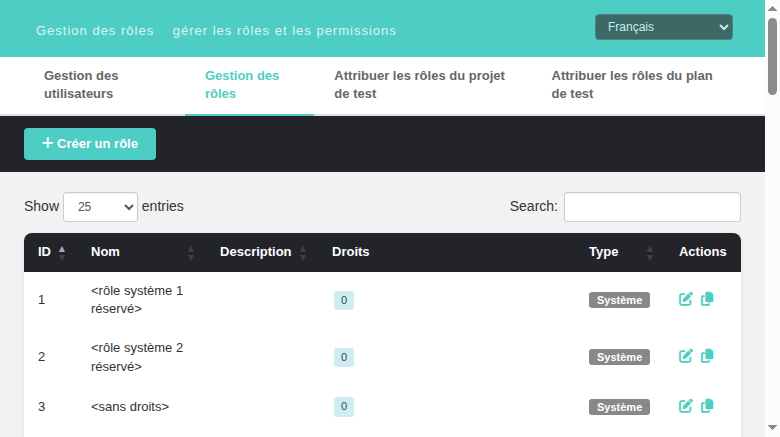
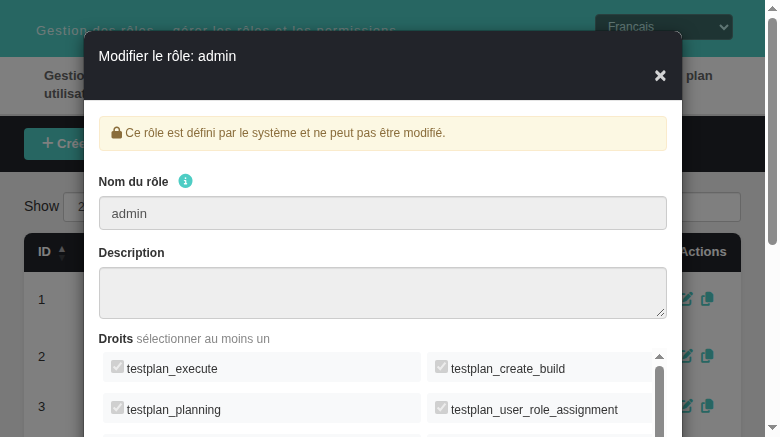
docs(#1840): regression suite, screen doc + CHANGELOG, real before/after screenshots (Refs #1840)
- tmp/TLU_Test_Cases.md: append 'Regression — Issue #1840' suite (M1-M7, all
  PASS) and run ai/verify_test_suites.sh: 7 -> 8 suites, 0 lost, own heading
  present, 7 PASS / 0 FAIL. Appended with >>, file regenerated by no one.
- docs/Bugfix-Issue-1840-fr-json-Missing-26-en-Keys.md: full write-up - the
  i18n.js:165 '_strings[key] || key' chain, the four commits that widened
  en.json, the misleading 'all 10 locale bundles' claim of 9d380b9dc (measured
  6 of 10), the blast radius, and the two rejected alternatives.
- Screenshots are now a real before/after of the SAME interaction (edit a
  system role, which un-hides #roleLockNote): before shows the raw keys
  'role.editLocked' / tooltip 'role.duplicateRole', after the French strings.
  The first pair was byte-identical (the nodes are display:none until the
  dialog opens) and was re-captured by reverting fr.json to HEAD~1 and
  replaying the click.
- The ASIDE half of the report is a different i18n layer (legacy
  locale/fr_FR/strings.txt, 89 missing $TLS_* keys) and is filed as #1843;
  the missing cross-bundle key-set CI gate as #1844.

Refs #1840

diff --git a/docs/Bugfix-Issue-1840-fr-json-Missing-26-en-Keys.md b/docs/Bugfix-Issue-1840-fr-json-Missing-26-en-Keys.md
@@ -1,0 +1,196 @@
+# Bugfix — Issue #1840: `gui/templates/i18n/fr.json` missing 26 `en.json` keys — `fr_FR` users saw raw dotted keys on screen
+
+- **Issue**: [#1840](https://github.com/sebiboga/testlink-upgraded/issues/1840)
+- **Branch**: `fix/issue-1840`
+- **Commit**: `cca8a6d01` — *fix(i18n): add the 26 keys en.json defines and fr.json lacked (Refs #1840)*
+- **Files changed**: `gui/templates/i18n/fr.json` (+26/-0), `CHANGELOG` (1 entry)
+- **Severity**: minor — cosmetic for `de/es/it` peers, but for `fr_FR` the leaked text is garbage (`role.noRights`), not English
+- **Regression suite**: `tmp/TLU_Test_Cases.md` → `## Regression — Issue #1840: …` (M1–M7, all PASS)
+- **Related**: the ASIDE half of the report is a *different* defect — [#1843](https://github.com/sebiboga/testlink-upgraded/issues/1843). The missing CI guard-rail — [#1844](https://github.com/sebiboga/testlink-upgraded/issues/1844)
+
+## Symptom
+
+`gui/templates/i18n/fr.json` defined 6700 of the 6726 keys in `en.json`. The 26
+absent ones belong to four shipped features (Requirements Monitor Overview grid
+toolbar, Roles Management dialogs, Test Strategy bug chapters, requirement-table
+counters) whose authors added the `en.json` key and stopped there.
+
+The user-visible result is **worse than untranslated English**: because
+`TLi18n.t()` has no per-key fallback, the module returns the key itself and the
+raw dotted key is written into the DOM.
+
+Measured pre-fix, `rolesView.html?locale=fr_FR`:
+
+```js
+TLi18n.t('role.noRights')    // => "role.noRights"     <-- raw key, not a label
+TLi18n.t('role.editLocked')  // => "role.editLocked"   <-- raw key
+```
+
+Static confirmation:
+
+```bash
+python3 -c "
+import json
+en=json.load(open('gui/templates/i18n/en.json'))
+fr=json.load(open('gui/templates/i18n/fr.json'))
+print(len(en), len(fr), len([k for k in en if k not in fr]))"
+# 6726 6700 26
+```
+
+## Root cause
+
+Two hops, both read from source:
+
+1. `gui/templates/i18n/i18n.js:165` — `t(key)` is `var str = _strings[key] || key;`.
+   `_strings` is whatever single bundle was fetched at
+   `gui/templates/i18n/i18n.js:131` (`/gui/templates/i18n/<locale>.json`). There
+   is no English merge, so an absent key resolves to itself.
+2. `gui/templates/i18n/i18n.js:187` — `apply()` writes `t(key)` into
+   `textContent` for every `[data-i18n]` node, unconditionally. The English
+   literal an author put in the HTML as a fallback is therefore **overwritten**
+   by the raw key.
+
+Why the keys went missing — four independent feature batches, each verified with
+`git log -S` against `gui/templates/i18n/en.json`:
+
+| commit | feature | keys |
+|---|---|---|
+| `588897593` | Test Strategy Bug Structure / Bug Lifecycle chapters | `ts.chapterBug*` (4) |
+| `a381901e3` | Req. Monitor Overview group-by-spec + toolbar | `rmo.grid.*` (7), `rmo.*` (3) |
+| `9d380b9dc` | Create Test Cases counters | `rctc.*` (6) |
+| `4bcf10e07` | Roles Management dialogs (a *restore* of gutted i18n) | `role.*` (6) |
+
+Nothing in the pipeline compares key **sets** across bundles — CI only runs
+`python3 -m json.tool`, which a bundle missing 26 keys passes trivially. That
+missing guard-rail is now [#1844](https://github.com/sebiboga/testlink-upgraded/issues/1844).
+
+### A commit message that lied
+
+`9d380b9dc` is titled *"i18n(reqCreateTestCases): rctc.\* keys in all 10 locale
+bundles"*. Measured today:
+
+```bash
+grep -c rctc.countFilled gui/templates/i18n/*.json
+# en 1, ja 1, pt 1, ro 1, ru 1, zh 1, de 0, es 0, fr 0, it 0
+```
+
+6 of 10, not 10. Reviewing the message instead of the diff is what let the gap
+through.
+
+## Blast radius (measured)
+
+* **`fr.json` — 26 keys**, every one referenced by live code, not dead weight:
+  * `rctc.*` → `gui/templates/requirements/reqCreateTestCases.html:257`
+    (`TLi18n.t()` inside a toast)
+  * `role.*` → `gui/templates/usermanagement/rolesView.html:101,508` and
+    `api/roles/index.php:642` (`messageKey` returned to the client)
+  * `ts.*` → `api/strategy/index.php:77,78` (chapter list, `key`/`descKey` pairs)
+  * `rmo.grid.*` / `rmo.*` → `gui/templates/requirements/reqMonitorOverview.html:55`
+    and its siblings
+* **Same 26 keys, same four-feature origin: `de.json`, `es.json`, `it.json`.**
+  `set(missing(de)) == set(missing(fr)) == set(missing(es)) == set(missing(it))`
+  measured `True`. Not fixed here — tracked with #1844.
+* **Different gaps elsewhere**: `ja`/`pt`/`ru` 20 each, `ro` 6, `zh` 40.
+* **A second, unrelated i18n layer.** The report's ASIDE symptom (`Test Strategy`
+  / `Documentation` in English inside an otherwise French menu) is **not** this
+  bug. The ASIDE is rendered by `lang_get()` from `locale/fr_FR/strings.txt`,
+  which lacks 89 of the 2783 `$TLS_*` keys in `locale/en_GB/strings.txt`,
+  including `title_test_strategy` and the whole `href_test_strategy_*` family.
+  The Event Viewer says so in as many words:
+  `string 'title_test_strategy' is not localized for locale 'fr_FR' - using en_GB`.
+  Filed separately as [#1843](https://github.com/sebiboga/testlink-upgraded/issues/1843).
+
+## The fix
+
+`gui/templates/i18n/fr.json` — 26 lines added, **0 removed, `en.json`
+untouched**, each key inserted at its alphabetical position inside its own group
+so the diff reads as ordinary maintenance:
+
+```json
+"rctc.countFilled": "Nombres de cas de test remplis d'après la couverture requise",
+"rctc.countInfo": "Exigences",
+"rctc.countReset": "Nombres de cas de test réinitialisés à 1",
+"rctc.createdOk": "Cas de test créés",
+"rctc.toggleAll": "Sélectionner / désélectionner toutes les exigences",
+"rctc.toggleCount": "Remplir automatiquement le nombre de cas de test d'après la couverture requise",
+"rmo.grid.expandCollapseGroups": "Déplier / Replier les groupes",
+"rmo.grid.groupItem": "({count} élément)",
+"rmo.grid.groupItems": "({count} éléments)",
+"rmo.grid.groupsCollapsed": "Groupes repliés",
+"rmo.grid.groupsExpanded": "Groupes dépliés",
+"rmo.grid.hideGroupedColumn": "Masquer la colonne groupée",
+"rmo.grid.showAllColumns": "Afficher toutes les colonnes",
+"rmo.multiSort": "Tri multi-critères",
+"rmo.resetFilters": "Réinitialiser les filtres",
+"rmo.resetToDefaultState": "Réinitialiser l'état par défaut",
+"role.duplicateRole": "Dupliquer",
+"role.editLocked": "Ce rôle est défini par le système et ne peut pas être modifié.",
+"role.error.duplicate": "Erreur lors de la duplication du rôle",
+"role.noRights": "Vous n'avez pas les droits requis pour gérer les rôles (droit role_management requis).",
+"role.systemDeleteDenied": "Les rôles système ne peuvent pas être supprimés.",
+"role.warningUsersWillBeReset": "Les utilisateurs concernés recevront le rôle",
+"ts.chapterBugLifecycle": "Cycle de Vie du Bug",
+"ts.chapterBugLifecycleDesc": "Les états traversés par un défaut, avec un exemple de mapping GitHub : statut, assignés et labels.",
+"ts.chapterBugStructure": "Structure du Bug",
+"ts.chapterBugStructureDesc": "Les sections obligatoires d'un rapport de défaut : ENVIRONMENT, STEPS TO REPRODUCE, EXPECTED RESULTS, ACTUAL RESULTS."
+```
+
+Three decisions worth recording:
+
+1. **Terminology reuse instead of invention.** The same two chapter titles were
+   *already* translated in `fr.json` under sibling keys:
+   `ts.bugLifecycleHeader` = `"Cycle de Vie du Bug"`,
+   `ts.bugStructureHeader` = `"Structure du Bug"`. Those exact strings are
+   reused, so one file does not end up with two competing renderings of the
+   same chapter name.
+2. **Placeholders asserted, not eyeballed.** `rmo.grid.groupItem` and
+   `groupItems` are interpolated with `{count}`; the insert script verifies
+   every `{token}` in the `en.json` source value still exists in the
+   translation before writing, so a dropped `{}` cannot print literally.
+3. **Rejected alternatives.**
+   * *A CI key-set gate* (the report's option (b)) — this is build
+     infrastructure, it would fail immediately on the `de/es/it/ja/pt/ru/zh`
+     backlog, and it is not needed to stop the user-visible defect. Filed as
+     #1844 rather than smuggled into a data fix.
+   * *Merging `en.json` per key inside `i18n.js`* — would heal every locale and
+     every future gap, but it changes shared runtime behaviour for every screen
+     in the product (extra bundle fetch, new merge semantics) to paper over
+     missing data. That is the "architectural" branch of the rulebook; the data
+     is the defect.
+
+## Verification
+
+| # | Case | Measured |
+|---|---|---|
+| M1 | key-set diff `fr` vs `en` | `en 6726 / fr 6726 / missing 0` (was `6700 / 26`) |
+| M2 | `python3 -m json.tool gui/templates/i18n/fr.json` | exit 0 |
+| M3 | nothing overwritten | `git diff --numstat` → `26  0  fr.json`; `en.json` absent from the diff |
+| M4 | placeholders interpolate | `groupItem.format(count=3)` → `(3 élément)`; `groupItems.format(count=7)` → `(7 éléments)`; in-browser `TLi18n.t('rmo.grid.groupItem',{count:4})` → `(4 élément)` |
+| M5 | runtime `fr_FR` | 26-key unresolved probe → `[]` (was 6/6 raw keys); `role.duplicateRole`→`Dupliquer`, `rmo.grid.expandCollapseGroups`→`Déplier / Replier les groupes`, `ts.chapterBugLifecycle`→`Cycle de Vie du Bug` |
+| M6 | runtime `en_GB` unaffected | `role.duplicateRole`→`Duplicate`, `rmo.grid.expandCollapseGroups`→`Expand/Collapse Groups`, `rctc.countInfo`→`Requirements` |
+| M7 | Event Viewer | fresh logout+login: `events` 32→63 rows but `count(distinct description)` unchanged at **32**; the 60 `log_level=32` rows still collapse to the same 30 legacy strings; `log_level=16` rows are `audit_login_success`; **no ERROR row**. Console: no errors/warnings (2 pre-existing a11y hints on `rolesView.html`) |
+
+M7 is the decisive one for the "did I fix the right thing" question: every
+remaining warning comes from `lang_get()` / `locale/fr_FR/strings.txt`, while
+the `gui/templates/i18n/*.json` path fires **no** event at all — so the fix can
+only ever move the first symptom, and it does.
+
+Screenshots: `docs/screenshots/issue-1840-fr-bundle-missing-keys-before.png`
+(raw keys visible), `docs/screenshots/issue-1840-fr-bundle-missing-keys-after.png`
+(French).
+
+## Re-test in one command
+
+```bash
+mysql -h 127.0.0.1 -utestlink -ptestlink testlink \
+  -e "update users set locale='fr_FR' where id=1;"
+# open http://localhost:8082/gui/templates/usermanagement/rolesView.html?locale=fr_FR
+# devtools console:
+#   ['role.noRights','role.editLocked','role.duplicateRole'].map(k => [k, TLi18n.t(k)])
+# expected: French strings, none equal to their own key
+python3 -c "
+import json
+en=json.load(open('gui/templates/i18n/en.json'))
+fr=json.load(open('gui/templates/i18n/fr.json'))
+print('missing', len([k for k in en if k not in fr]))"   # expected: 0
+```

diff --git a/tmp/TLU_Test_Cases.md b/tmp/TLU_Test_Cases.md
@@ -487,3 +487,79 @@ rows in `execution_bugs`; tracker table `mantis_bug_table` with ids 101(new/10),
 7. Event Viewer / `events` table after the run.
    *Expected:* no new Error/Warning rows.
    *Actual:* **PASS** — no new rows; `php -l api/reports/index.php` clean.
+
+## Regression — Issue #1840: `gui/templates/i18n/fr.json` missing 26 `en.json` keys — `TLi18n.t()` leaked the raw dotted key (`role.noRights`) to `fr_FR` users
+
+**Precondition** — TestLink 2.0.1 on `http://localhost:8082`, MariaDB
+`testlink`, login `admin`/`admin`, `users.locale='fr_FR'` for the `fr` runs.
+Browser = headless Chrome via chrome-devtools MCP.
+
+### Symptom (pre-fix)
+
+`gui/templates/i18n/i18n.js:165` resolves `t(key)` as `_strings[key] || key`,
+so a key that `en.json` defines but `fr.json` does not has **no fallback
+layer**: the module returns the key itself and `apply()` (i18n.js:187) writes it
+into `textContent`, overwriting the English literal the screen author had put
+in the HTML. A `fr_FR` user therefore saw the raw key on screen — verified on
+`rolesView.html`, where `role.noRights` and `role.editLocked` rendered as
+`"role.noRights"` / `"role.editLocked"`.
+
+### Reproduction steps (pre-fix)
+
+```bash
+mysql -h 127.0.0.1 -utestlink -ptestlink testlink \
+  -e "update users set locale='fr_FR' where id=1;"
+# browser -> http://localhost:8082/index.php -> login admin/admin
+#          -> http://localhost:8082/gui/templates/usermanagement/rolesView.html?locale=fr_FR
+# devtools -> evaluate:
+#   ['role.noRights','role.editLocked'].map(k => [k, TLi18n.t(k)])
+```
+
+```bash
+python3 -c "
+import json
+en=json.load(open('gui/templates/i18n/en.json'))
+fr=json.load(open('gui/templates/i18n/fr.json'))
+print(len(en), len(fr), len([k for k in en if k not in fr]))"
+# 6726 6700 26      <- pre-fix
+```
+
+### Expected post-fix behavior
+
+`fr.json` defines all 26 keys (`missing 0`), so at `locale=fr_FR`
+`TLi18n.t(key)` returns the French string for every one of them (never the key),
+the interpolated keys keep their `{count}` placeholder, `locale=en_GB` output
+is unchanged, and the run adds no new Error/Warning row to `events`.
+
+### Actual result
+
+**PASS** — M1 `en 6726 / fr 6726 / missing 0`; M2 `python3 -m json.tool
+gui/templates/i18n/fr.json` exit 0; M3 `git diff --numstat` = `26  0  fr.json`
+with `en.json` absent from the diff (nothing overwritten); M4
+`rmo.grid.groupItem.format(count=3)` → `(3 élément)`,
+`groupItems.format(count=7)` → `(7 éléments)`, in-browser
+`TLi18n.t('rmo.grid.groupItem',{count:4})` → `(4 élément)`; M5 on
+`rolesView.html?locale=fr_FR` the 26-key unresolved probe returned `[]`
+(pre-fix 6/6 raw keys), e.g. `role.duplicateRole`→`Dupliquer`,
+`role.editLocked`→`Ce rôle est défini par le système et ne peut pas être modifié.`,
+`rmo.grid.expandCollapseGroups`→`Déplier / Replier les groupes`,
+`ts.chapterBugLifecycle`→`Cycle de Vie du Bug`; M6 at `locale=en_GB`
+`role.duplicateRole`→`Duplicate`,
+`rmo.grid.expandCollapseGroups`→`Expand/Collapse Groups`,
+`rctc.countInfo`→`Requirements`; M7 fresh logout+login: `events` 32→63 rows but
+`count(distinct description)` unchanged at 32 and the 60 `log_level=32` rows
+still collapse to the same 30 legacy strings, no ERROR-level row, console has
+no errors/warnings (only two pre-existing a11y hints on `rolesView.html`).
+Screenshots: `docs/screenshots/issue-1840-fr-bundle-missing-keys-{before,after}.png`.
+
+### Non-regression note (M7 detail — a DIFFERENT defect, filed separately)
+
+The ASIDE entries `Test Strategy` / `Documentation` stay English after this fix
+and that is correct: the ASIDE is rendered by `lang_get()` from
+`locale/fr_FR/strings.txt`, which lacks 89 of the 2783 `$TLS_*` keys present in
+`locale/en_GB/strings.txt` (including `title_test_strategy` and the whole
+`href_test_strategy_*` family). The Event Viewer says so explicitly:
+`string 'title_test_strategy' is not localized for locale 'fr_FR' - using en_GB`.
+The same 26-key gap also exists in `de.json`/`es.json`/`it.json` (identical key
+sets, measured) and different-sized gaps in `ja`/`pt`/`ru` (20), `ro` (6),
+`zh` (40) — none of them touched by this fix.
